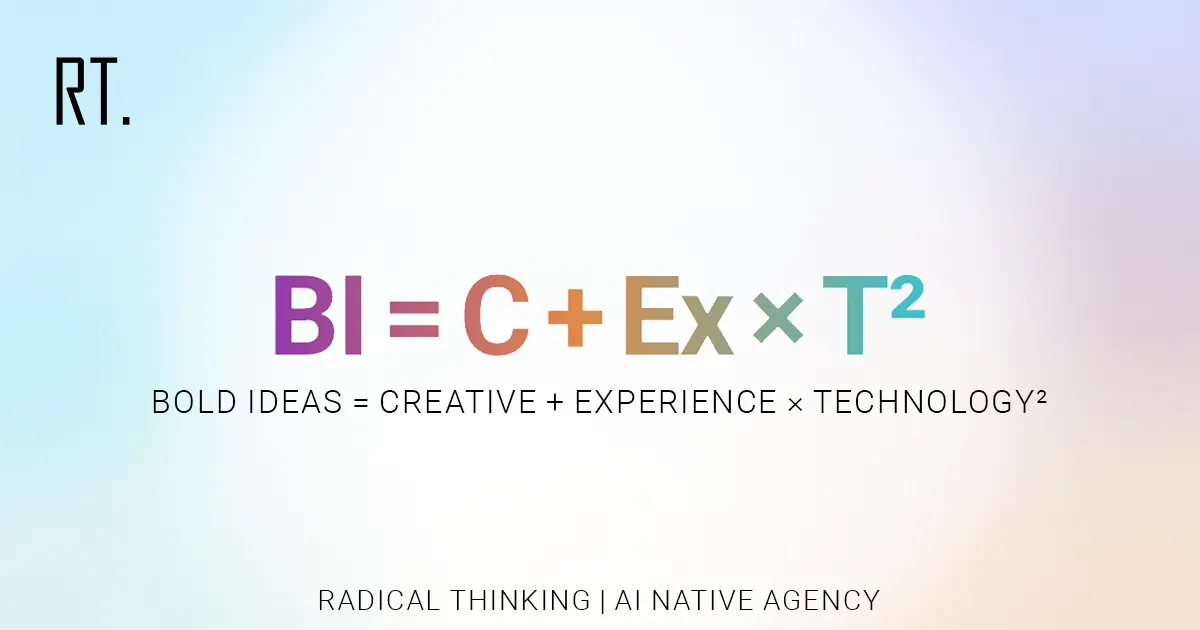
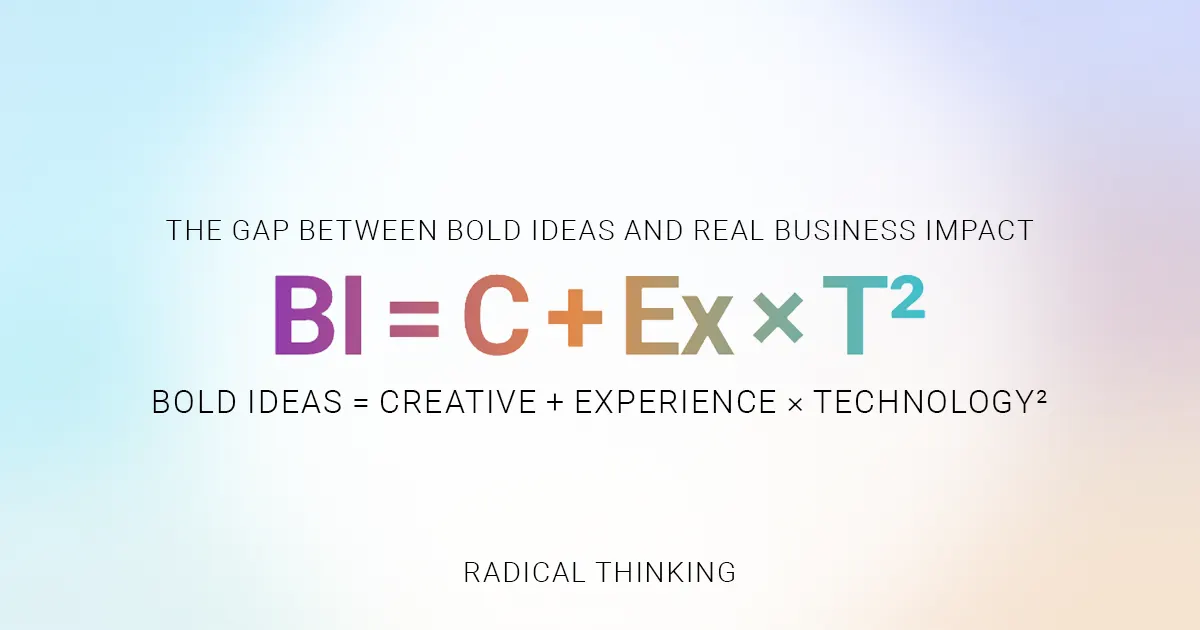
Update homepage title and OG image to lead with the formula.
Replace the long positioning tagline with Creative + Experience × Technology² and refresh the share image so social previews match the story.

Changed region(s): [[0.1542, 0.3317, 0.8633, 0.3921], [0.2467, 0.8746, 0.74, 0.9651], [0.0308, 0.0905, 0.0925, 0.2111]]

diff --git a/src/app/layout.js b/src/app/layout.js
@@ -6,7 +6,7 @@ import { roboto, robotoSlab } from "@/lib/fonts";
 const GTM_ID = "GTM-W67J42";
 
 export const metadata = {
-  title: "Radical Thinking | A partner for organisations working on bold ideas",
+  title: "Radical Thinking | Creative + Experience × Technology²",
   description:
     "Radical Thinking is a partner for organisations working on bold ideas. Creative finds what is worth building, experience makes it land, technology and AI amplify both.",
   authors: [{ name: "Radical Thinking" }],
@@ -16,7 +16,7 @@ export const metadata = {
   openGraph: {
     type: "website",
     url: "https://radical-thinking.net",
-    title: "Radical Thinking | A partner for organisations working on bold ideas",
+    title: "Radical Thinking | Creative + Experience × Technology²",
     description:
       "Radical Thinking is a partner for organisations working on bold ideas. Creative finds what is worth building, experience makes it land, technology and AI amplify both.",
     siteName: "Radical Thinking",
@@ -31,7 +31,7 @@ export const metadata = {
   },
   twitter: {
     card: "summary_large_image",
-    title: "Radical Thinking | A partner for organisations working on bold ideas",
+    title: "Radical Thinking | Creative + Experience × Technology²",
     description:
       "Radical Thinking. A partner for organisations working on bold ideas. Creative, experience, technology, and AI in the right ratio.",
     images: ["https://radical-thinking.net/Images/OG/OG-Homepage.webp"],
